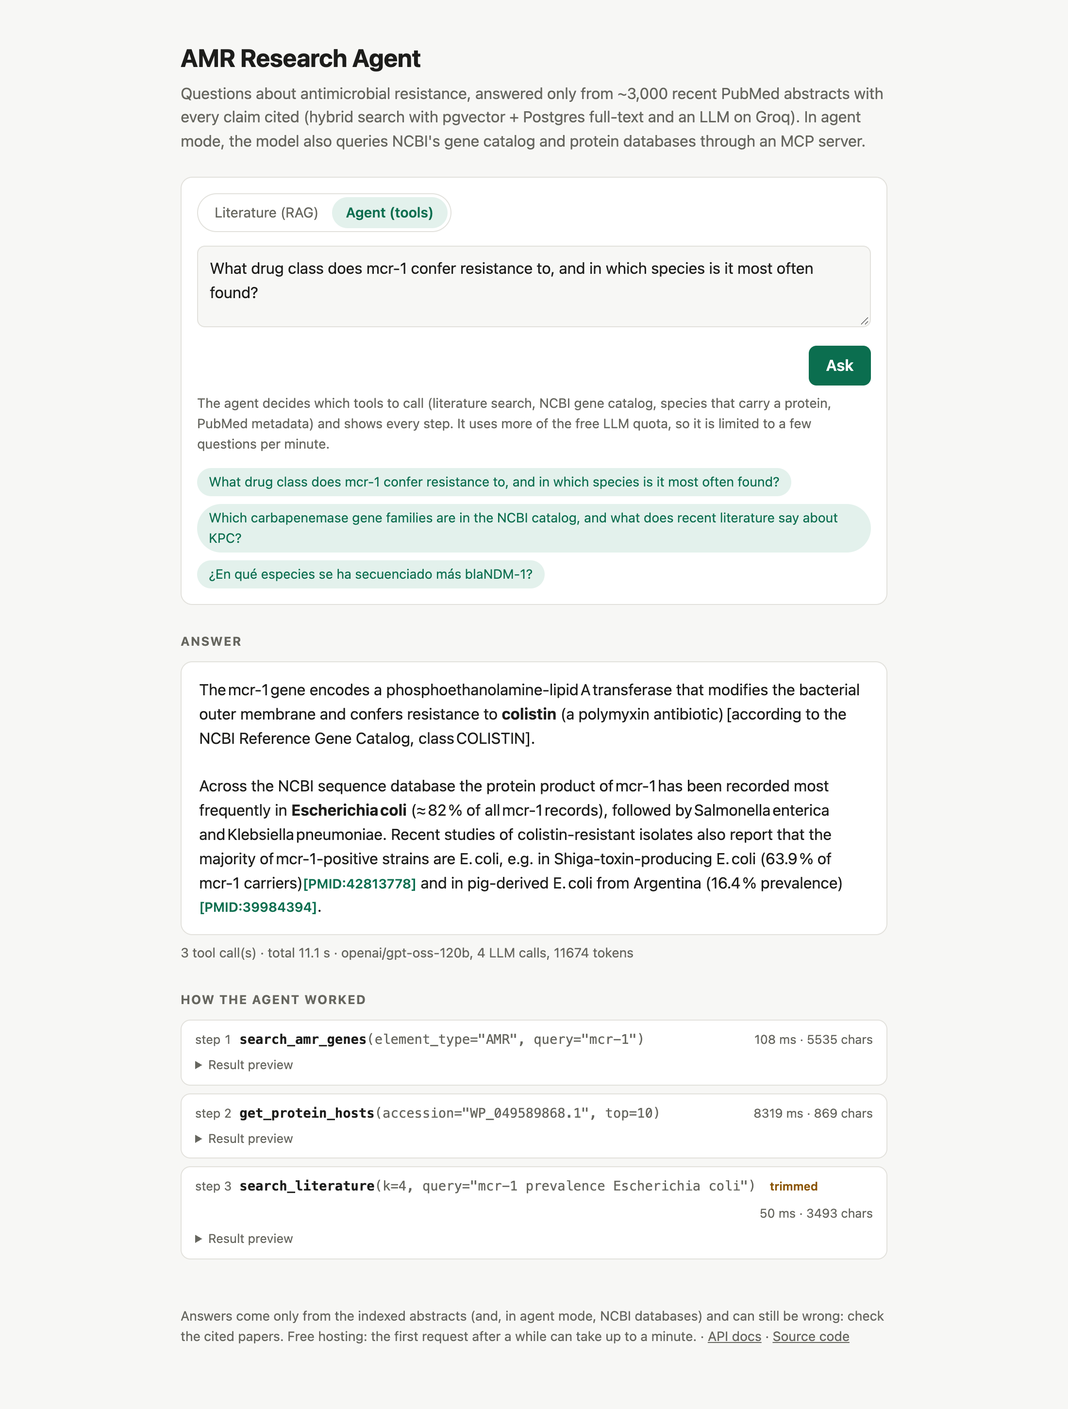
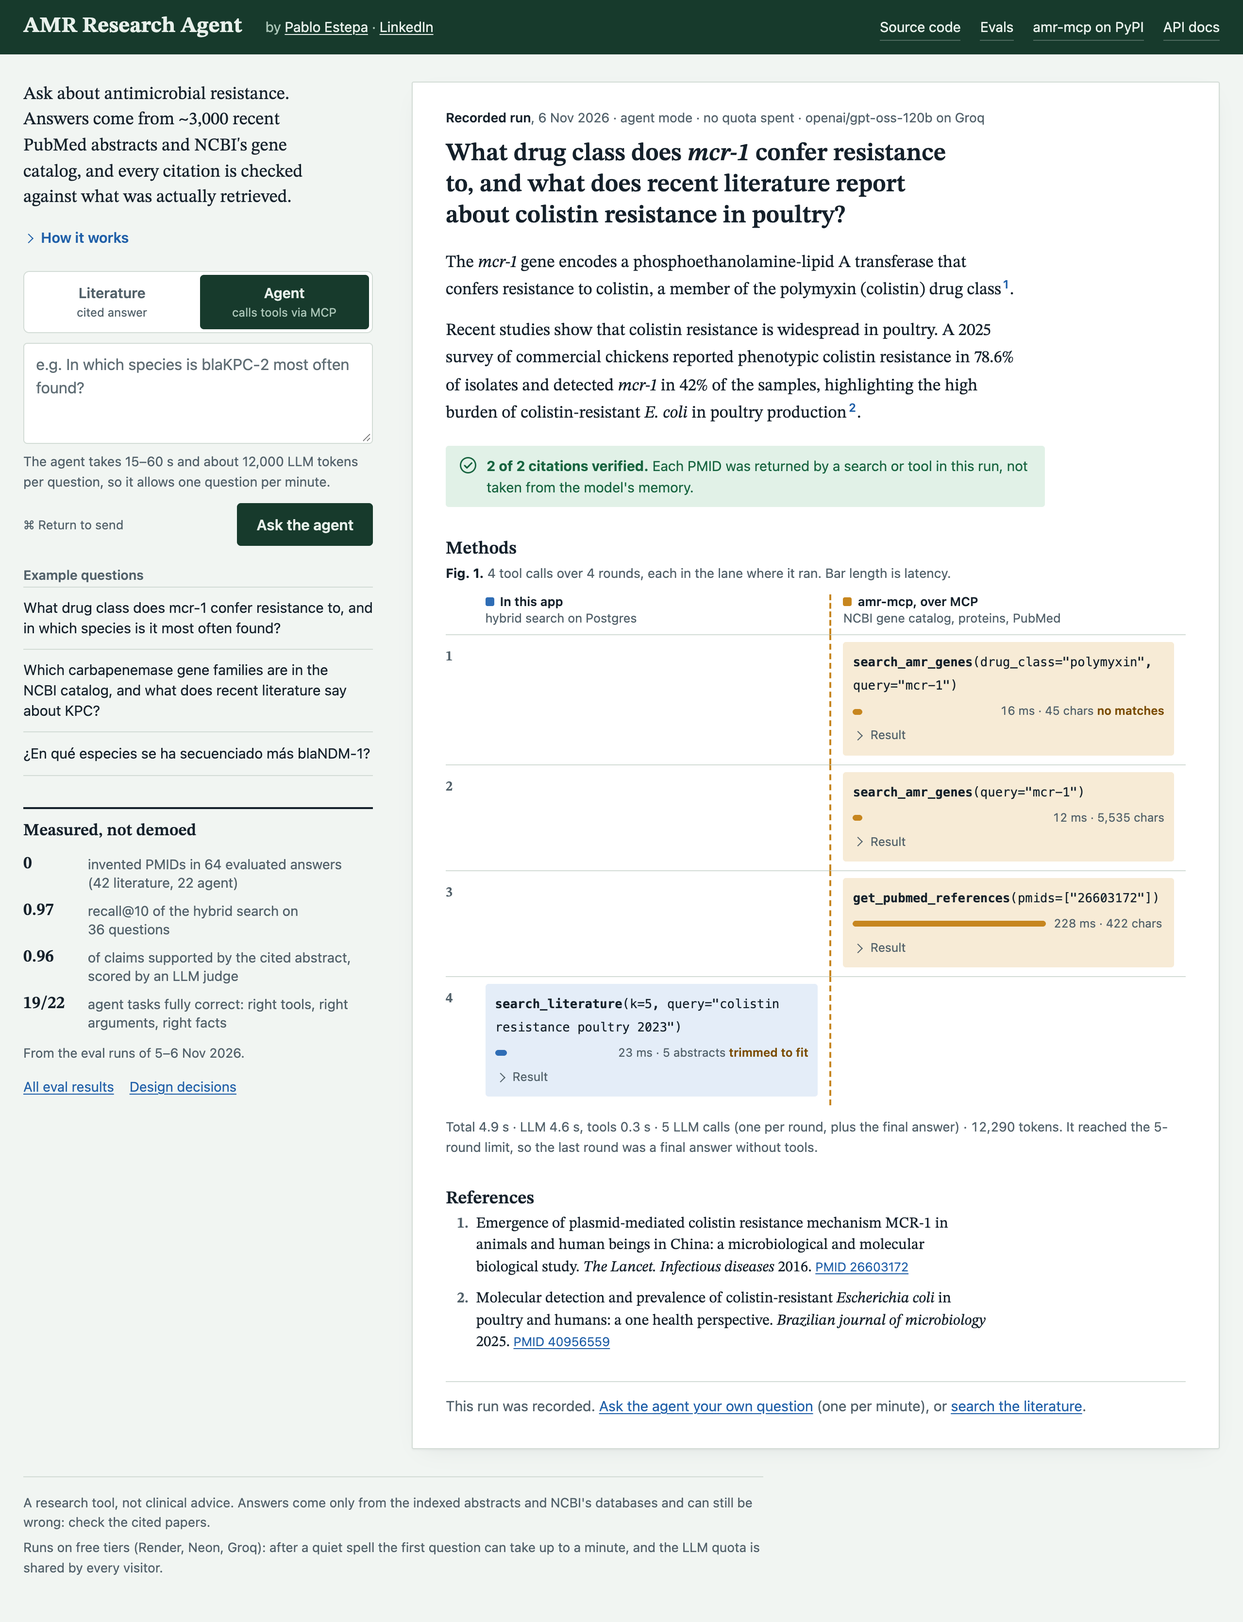
Show demo failures inside the entry and start in agent mode

diff --git a/src/amr_agent/api/static/index.html b/src/amr_agent/api/static/index.html
@@ -18,7 +18,7 @@
     --shell: #173a2c; --shell-ink: #e8f0eb; --shell-muted: #a9c4b6; --shell-line: #ffffff3d;
     --link: #1f5fa8; --ok: #17643f; --ok-soft: #e1f1e7; --bad: #a3241a; --bad-soft: #fbe7e4;
     --warn: #7a4b00; --warn-soft: #fbf0d9;
-    --app: #2f6db5; --app-soft: #e4edf8; --mcp: #9a5f0c; --mcp-bar: #c7861f; --mcp-soft: #f7ebd6;
+    --app: #2f6db5; --app-soft: #e4edf8; --mcp: #8a5308; --mcp-bar: #c7861f; --mcp-soft: #f7ebd6;
     --select: #cfe3d7; --placeholder: #5f6d74;
     --serif: "STIX Two Text", "STIX Two", Cambria, "Times New Roman", serif;
     --sans: -apple-system, BlinkMacSystemFont, "Segoe UI", "Helvetica Neue", Arial, sans-serif;
@@ -86,6 +86,7 @@
   select { font: inherit; color: var(--ink); background: var(--paper); border: 1px solid var(--rule); border-radius: 4px; padding: 6px 8px; min-height: 36px; }
   .submit-row { display: flex; align-items: center; gap: 12px; margin-top: 12px; }
   .kbd { color: var(--muted); font-size: 0.8rem; }
+  @media (hover: none) { .kbd { visibility: hidden; } }
   .btn { margin-left: auto; font: 600 0.95rem var(--sans); color: var(--shell-ink); background: var(--shell); border: 0; border-radius: 4px; padding: 0 20px; min-height: 44px; cursor: pointer; transition: background-color 150ms ease-out; }
   .btn:hover:not(:disabled) { background: #0f2b20; }
   .btn:disabled { cursor: not-allowed; opacity: 0.62; }
@@ -119,10 +120,16 @@
   .evidence dl { margin: 0; max-width: 34ch; display: grid; grid-template-columns: 3.4rem 1fr; gap: 8px 12px; }
   .evidence dt { font: 600 1.12rem/1.3 var(--serif); font-variant-numeric: lining-nums tabular-nums; }
   .evidence dd { margin: 0; color: var(--muted); font-size: 0.88rem; line-height: 1.35; padding-top: 2px; }
+  .evidence .fig-date { margin: 12px 0 0; font-size: 0.84rem; color: var(--muted); }
   .evidence .links { margin: 14px 0 0; font-size: 0.88rem; display: flex; flex-wrap: wrap; gap: 4px 16px; }
-  details.how { margin-top: 14px; border-top: 1px solid var(--rule); padding-top: 10px; font-size: 0.9rem; }
-  details.how summary { cursor: pointer; font-weight: 600; min-height: 32px; display: flex; align-items: center; }
-  details.how ol { margin: 6px 0 0; padding-left: 1.3rem; }
+  details.how { margin: -6px 0 18px; font-size: 0.92rem; }
+  details.how summary { cursor: pointer; font-weight: 600; min-height: 32px; display: flex; align-items: center; color: var(--link); }
+  /* Marcador propio: con display:flex el <summary> pierde el triángulo del navegador */
+  details > summary { list-style: none; }
+  details > summary::-webkit-details-marker { display: none; }
+  details > summary::before { content: ""; flex: none; width: 6px; height: 6px; margin: 0 9px 0 2px; border-right: 1.5px solid currentColor; border-bottom: 1.5px solid currentColor; transform: rotate(-45deg); transition: transform 150ms ease-out; }
+  details[open] > summary::before { transform: rotate(45deg) translate(-1px, -1px); }
+  details.how ol { margin: 6px 0 4px; padding-left: 1.3rem; color: var(--ink); }
   details.how li { margin-bottom: 6px; }
 
   /* --- La entrada del cuaderno --------------------------------------------------------- */
@@ -131,11 +138,12 @@
   .entry:focus-visible { outline: 2px solid var(--link); }
   .entry-meta { display: flex; flex-wrap: wrap; gap: 6px 14px; align-items: center; font-size: 0.84rem; color: var(--muted); margin-bottom: 12px; }
   .entry-meta b { font-weight: 600; color: var(--ink); }
-  .entry h2.q { font: 600 1.6rem/1.25 var(--serif); margin: 0 0 18px; max-width: 44ch; text-wrap: balance; overflow-wrap: anywhere; }
+  .entry h2.q { font: 600 1.6rem/1.25 var(--serif); margin: 0 0 18px; max-width: 44ch; text-wrap: balance; overflow-wrap: break-word; }
   .answer { font: 400 1.1rem/1.62 var(--serif); max-width: 68ch; overflow-wrap: break-word; font-variant-numeric: oldstyle-nums proportional-nums; }
   .answer p, .answer ul, .answer ol { margin: 0 0 0.75em; }
   .answer ul, .answer ol { padding-left: 1.3em; }
   .answer strong { font-weight: 600; }
+  i.gene, i.sp { white-space: nowrap; }
   .refs-inline { font: 600 0.68em/1 var(--sans); vertical-align: 0.5em; margin-left: 1px; white-space: nowrap; }
   .refs-inline a { text-decoration: none; padding: 0 1px; }
   .refs-inline a:hover { text-decoration: underline; }
@@ -149,7 +157,7 @@
   .witness b { font-weight: 700; }
 
   .entry h3 { font: 600 1.15rem/1.3 var(--serif); margin: 32px 0 2px; }
-  .entry .sub { color: var(--muted); font-size: 0.86rem; margin: 0 0 12px; max-width: 68ch; }
+  .entry .sub { color: var(--muted); font-size: 0.84rem; margin: 0 0 12px; max-width: 68ch; }
   .entry .sub b { color: var(--ink); }
 
   /* Métodos: la trayectoria, con la frontera MCP como línea discontinua */
@@ -170,7 +178,7 @@
   .call.error { box-shadow: inset 0 0 0 1px var(--bad); }
   .call code { font-size: 0.8rem; line-height: 1.4; overflow-wrap: anywhere; }
   .call code b { font-weight: 700; }
-  .call .where { display: none; font-size: 0.75rem; font-weight: 600; color: var(--mcp); }
+  .call .where { display: none; font-size: 0.76rem; font-weight: 600; color: var(--mcp); }
   .bar { display: flex; align-items: center; gap: 8px; margin-top: 7px; font-size: 0.76rem; color: var(--muted); font-variant-numeric: tabular-nums; }
   .bar .track { flex: 1 1 0; max-width: 62%; min-width: 48px; }
   .bar .label { flex: none; }
@@ -200,11 +208,20 @@
 
   /* Espera */
   .pending { color: var(--muted); font-size: 0.95rem; max-width: 60ch; }
+  .wait-cell { grid-column: 2 / 4; min-height: 56px; }
+  .wait-track { height: 6px; margin-top: 18px; border-radius: 3px; background: var(--ground); overflow: hidden; }
+  .wait-track i { display: block; height: 100%; width: 0; background: var(--muted); opacity: 0.45; transition: width 1s linear; }
   .pending p { margin: 0 0 6px; }
   .pending .elapsed { font-variant-numeric: tabular-nums; }
 
+  .entry-notice { padding: 12px 14px; border-radius: 3px; max-width: 68ch; font-size: 0.95rem; }
+  .entry-notice p { margin: 0; }
+  .entry-notice .countdown:not(:empty) { margin-top: 6px; font-weight: 600; font-variant-numeric: tabular-nums; }
+  .entry-notice.error { background: var(--bad-soft); color: var(--bad); }
+  .entry-notice.limit { background: var(--warn-soft); color: var(--warn); }
+  .entry-notice .link-btn { color: inherit; font-weight: 600; }
   .next { margin: 28px 0 0; padding-top: 14px; border-top: 1px solid var(--rule); font-size: 0.92rem; color: var(--muted); }
-  footer.foot { grid-column: 1 / -1; color: var(--muted); font-size: 0.86rem; border-top: 1px solid var(--rule); padding-top: 16px; max-width: 90ch; }
+  footer.foot { grid-column: 1 / -1; color: var(--muted); font-size: 0.84rem; border-top: 1px solid var(--rule); padding-top: 16px; max-width: 90ch; }
   footer.foot p { margin: 0 0 6px; }
 
   /* El único movimiento: las barras de latencia se dibujan al aparecer la trayectoria */
@@ -254,18 +271,30 @@
     <section class="ask" aria-label="Ask a question">
       <p class="lead">Ask about antimicrobial resistance. Answers come from ~3,000 recent PubMed abstracts
         and NCBI's gene catalog, and every citation is checked against what was actually retrieved.</p>
+      <details class="how">
+        <summary>How it works</summary>
+        <ol>
+          <li>Your question is searched two ways over ~3,000 PubMed abstracts (2022–2026): Postgres
+            full-text for exact terms and pgvector embeddings for meaning, merged with reciprocal rank fusion.</li>
+          <li>An LLM (gpt-oss-120b on Groq) answers only from the abstracts it was given and cites them by PMID.</li>
+          <li>Every cited PMID is checked against what was retrieved. Anything else is flagged, never trusted.</li>
+          <li>In agent mode the model runs a loop of up to 5 rounds and chooses its tools: the same
+            literature search, or NCBI's gene catalog, protein records and PubMed through
+            <a href="https://pypi.org/project/amr-mcp/">amr-mcp</a>, an MCP server I wrote.</li>
+        </ol>
+      </details>
 
       <form id="ask">
         <fieldset class="tabs">
           <legend class="vh">Mode</legend>
-          <label><input type="radio" name="kind" value="ask" checked>Literature<small>cited answer</small></label>
-          <label><input type="radio" name="kind" value="agent">Agent<small>calls tools via MCP</small></label>
+          <label><input type="radio" name="kind" value="ask">Literature<small>cited answer</small></label>
+          <label><input type="radio" name="kind" value="agent" checked>Agent<small>calls tools via MCP</small></label>
         </fieldset>
         <label for="question" class="vh">Your question</label>
         <textarea id="question" name="question" maxlength="500" autocomplete="off"
-          placeholder="e.g. Which genes confer colistin resistance in E. coli?" aria-describedby="lang-note mode-note"></textarea>
+          placeholder="e.g. In which species is blaKPC-2 most often found?" aria-describedby="lang-note mode-note"></textarea>
         <p class="field-note lang" id="lang-note" hidden>The search index is English-only, so English questions find more. The answer will still be in your language.</p>
-        <div class="opts" id="search-opts">
+        <div class="opts" id="search-opts" hidden>
           <label for="mode">Search by</label>
           <select id="mode" name="mode">
             <option value="hybrid" selected>keywords + meaning (hybrid)</option>
@@ -273,10 +302,10 @@
             <option value="keyword">exact keywords (full-text)</option>
           </select>
         </div>
-        <p class="field-note" id="mode-note" hidden>The agent takes 15–60 s and about 12,000 LLM tokens per question, so it allows one question per minute.</p>
+        <p class="field-note" id="mode-note">The agent takes 15–60 s and about 12,000 LLM tokens per question, so it allows one question per minute.</p>
         <div class="submit-row">
           <span class="kbd" id="kbd" aria-hidden="true"></span>
-          <button type="submit" class="btn" id="submit">Search the literature</button>
+          <button type="submit" class="btn" id="submit">Ask the agent</button>
         </div>
         <div class="status" id="status" role="status" aria-live="polite"></div>
       </form>
@@ -284,13 +313,13 @@
     </section>
 
     <section class="examples-box" aria-labelledby="ex-h">
-      <p class="ex-h" id="ex-h">Or try one</p>
-      <ul class="examples" id="examples-ask" aria-labelledby="ex-h">
+      <p class="ex-h" id="ex-h">Example questions</p>
+      <ul class="examples" id="examples-ask" aria-labelledby="ex-h" hidden>
         <li><button type="button">Which genes confer colistin resistance in E. coli?</button></li>
         <li><button type="button">How does blaNDM-1 spread between bacteria?</button></li>
         <li><button type="button">Are ESBL-producing E. coli found in food animals?</button></li>
       </ul>
-      <ul class="examples" id="examples-agent" aria-labelledby="ex-h" hidden>
+      <ul class="examples" id="examples-agent" aria-labelledby="ex-h">
         <li><button type="button">What drug class does mcr-1 confer resistance to, and in which species is it most often found?</button></li>
         <li><button type="button">Which carbapenemase gene families are in the NCBI catalog, and what does recent literature say about KPC?</button></li>
         <li><button type="button">¿En qué especies se ha secuenciado más blaNDM-1?</button></li>
@@ -305,22 +334,11 @@
         <dt>0.96</dt><dd>of claims supported by the cited abstract, scored by an LLM judge</dd>
         <dt>19/22</dt><dd>agent tasks fully correct: right tools, right arguments, right facts</dd>
       </dl>
+      <p class="fig-date">From the eval runs of 5–6 Nov 2026.</p>
       <p class="links">
         <a href="https://github.com/pabloestepaa/amr-research-agent/blob/main/evals/RESULTS.md">All eval results</a>
         <a href="https://github.com/pabloestepaa/amr-research-agent/blob/main/docs/decisions.md">Design decisions</a>
       </p>
-      <details class="how">
-        <summary>How it works</summary>
-        <ol>
-          <li>Your question is searched two ways over ~3,000 PubMed abstracts (2022–2026): Postgres
-            full-text for exact terms and pgvector embeddings for meaning, merged with reciprocal rank fusion.</li>
-          <li>An LLM (gpt-oss-120b on Groq) answers only from the abstracts it was given and cites them by PMID.</li>
-          <li>Every cited PMID is checked against what was retrieved. Anything else is flagged, never trusted.</li>
-          <li>In agent mode the model runs a loop of up to 5 rounds and chooses its tools: the same
-            literature search, or NCBI's gene catalog, protein records and PubMed through
-            <a href="https://pypi.org/project/amr-mcp/">amr-mcp</a>, an MCP server I wrote.</li>
-        </ol>
-      </details>
     </section>
   </div>
 
@@ -362,7 +380,8 @@ const plural = (n, one, many) => `${fmt(n)} ${n === 1 ? one : many}`;
 
 // gpt-oss escribe espacios finos (U+202F) y guiones que no cortan (U+2011): se ven como espacios
 // perdidos y rompen las búsquedas de genes. Se normalizan antes de nada.
-const normalize = (t) => String(t).replace(/[    ]/g, " ").replace(/[‐‑]/g, "-");
+const normalize = (t) => String(t).replace(/[    ]/g, " ").replace(/[‐‑]/g, "-").replace(/(\d) +%/g, "$1%")
+  .replace(/\b[Bb]la_(?=[A-Z])/g, "bla");  // gpt-oss escribe a veces bla_NDM-1
 
 // Convención científica: especies y genes en cursiva.
 const GENERA = "Escherichia|Klebsiella|Acinetobacter|Pseudomonas|Salmonella|Enterobacter|Enterococcus|Staphylococcus|Streptococcus|Proteus|Serratia|Citrobacter|Shigella|Campylobacter|Neisseria|Mycobacterium|Clostridioides|Helicobacter|Vibrio|Morganella|Providencia|Burkholderia|Stenotrophomonas|Haemophilus|Listeria|Bacteroides";
@@ -374,7 +393,7 @@ const GENES = /\b(?:bla[A-Z][A-Za-z]*(?:-\d+)?|mcr-\d+(?:\.\d+)?|qnr[A-Z]\d*|tet
 function italicize(html) {
   // Solo en el texto, nunca dentro de etiquetas (que aquí solo son <strong>/<em>).
   return html.split(/(<[^>]+>)/).map((part) => part.startsWith("<") ? part
-    : part.replace(SPECIES, "<i>$&</i>").replace(GENES, "<i>$&</i>")).join("");
+    : part.replace(SPECIES, '<i class="sp">$&</i>').replace(GENES, '<i class="gene">$&</i>')).join("");
 }
 
 // El texto se escapa ANTES de darle formato: la respuesta del LLM nunca se inserta como HTML tal
@@ -543,6 +562,8 @@ function renderEntry(e) {
     if (rest.length)
       parts.push(`<details class="more-src"><summary>${rest.length === sources.length ? "Retrieved" : "Also retrieved"}, not cited (${rest.length})</summary><ol class="refs">${rest.map((s) => `<li>${reference(s, s.pmid)}</li>`).join("")}</ol></details>`);
   }
+  if (!recorded && RECORDED)
+    parts.push(`<p class="next"><button type="button" class="link-btn" data-act="ask-again">Ask another question</button> or <button type="button" class="link-btn" data-act="recorded">see the recorded agent run</button>.</p>`);
   if (recorded)
     parts.push(`<p class="next">This run was recorded. <button type="button" class="link-btn" data-act="agent">Ask the agent your own question</button> (one per minute), or <button type="button" class="link-btn" data-act="literature">search the literature</button>.</p>`);
   const bodyEl = $("entry-body");
@@ -550,6 +571,17 @@ function renderEntry(e) {
   entry.classList.remove("drawn");
   void entry.offsetWidth;  // reinicia la animación de las barras
   entry.classList.add("drawn");
+}
+
+// Cuando una pregunta falla, el aviso va en la propia entrada: en móvil la página ya se ha
+// desplazado hasta aquí y el formulario queda arriba, fuera de la vista.
+function renderFailure(kind, q, err) {
+  $("entry-meta").innerHTML = `<span><b>Your question</b> · ${kind === "agent" ? "agent mode" : "literature mode"} · not answered</span>`;
+  $("entry-q").innerHTML = italicize(escapeHtml(normalize(q)));
+  const back = current ? ` <button type="button" class="link-btn" data-act="restore">Show the previous entry</button>.` : "";
+  $("entry-body").innerHTML = `<div class="entry-notice ${err.cls || "error"}"><p>${err.html || escapeHtml(String(err.message || err))}</p>`
+    + `<p class="countdown" data-countdown="${kind}"></p></div><p class="next">Your question is still in the box above.${back}</p>`;
+  syncButton();
 }
 
 // --- Envío, espera y límites ---------------------------------------------------------------
@@ -569,6 +601,10 @@ function syncButton() {
   const kind = kindNow();
   const left = Math.ceil((cooldown[kind] - Date.now()) / 1000);
   if (busy) { submit.disabled = true; return; }
+  document.querySelectorAll("[data-countdown]").forEach((el) => {
+    const s = Math.ceil((cooldown[el.dataset.countdown] - Date.now()) / 1000);
+    el.textContent = s > 0 ? `You can ask again in ${s} s.` : (cooldown[el.dataset.countdown] ? "You can ask again now." : "");
+  });
   if (left > 0) {
     submit.disabled = true;
     submit.textContent = `Next question in ${left} s`;
@@ -602,7 +638,7 @@ function syncMode() {
   syncButton();
 }
 
-const SPANISH = /[¿¡ñáéíóú]|\b(qué|cuál|cómo|dónde|genes? de|resistencia|especies?|bacterias?)\b/i;
+const SPANISH = /[¿¡ñáéíóú]|\b(qué|cuál|cómo|dónde|genes? de|resistencia|especies?|bacterias)\b/i;
 function syncLang() { $("lang-note").hidden = isAgent() || !SPANISH.test(question.value); }
 
 function showPending(kind, q) {
@@ -611,13 +647,23 @@ function showPending(kind, q) {
   const what = kind === "agent"
     ? "The agent is choosing tools and reading their results. This usually takes 15–60 s."
     : "Searching the abstracts and writing a cited answer. This usually takes a few seconds.";
-  $("entry-body").innerHTML = `<div class="pending"><p>${what}</p><p class="elapsed" id="elapsed">0 s elapsed</p><p id="slow" hidden></p></div>`;
+  const frame = kind !== "agent" ? "" : `<h3>Methods</h3>
+    <p class="sub"><b>Fig. 1.</b> The agent runs up to 5 rounds on the server; its tool calls are drawn here, each in its lane, when it answers.</p>
+    <div class="lanes">
+      <div class="lane-h" aria-hidden="true"></div>
+      <div class="lane-h app">In this app<span>hybrid search on Postgres</span></div>
+      <div class="lane-h mcp">amr-mcp, over MCP<span>NCBI gene catalog, proteins, PubMed</span></div>
+      <div class="lane-n">…</div><div class="cell wait-cell"><div class="wait-track"><i id="wait-fill"></i></div></div>
+    </div>`;
+  $("entry-body").innerHTML = `<div class="pending"><p>${what}</p><p class="elapsed" id="elapsed">0 s elapsed</p><p id="slow" hidden></p></div>${frame}`;
   entry.setAttribute("aria-busy", "true");
   const t0 = Date.now();
   return setInterval(() => {
     const s = Math.round((Date.now() - t0) / 1000);
     const el = $("elapsed");
     if (el) el.textContent = `${s} s elapsed`;
+    const fill = $("wait-fill");  // tiempo real transcurrido frente a los 60 s habituales
+    if (fill) fill.style.width = `${Math.min(100, (s / 60) * 100)}%`;
     const slow = $("slow");
     if (slow && s >= (kind === "agent" ? 70 : 12)) {
       slow.hidden = false;
@@ -670,9 +716,10 @@ async function ask(event) {
     entry.focus({ preventScroll: true });
     bringIntoView();
   } catch (err) {
-    if (current) renderEntry(current);
-    setStatus(err.html || escapeHtml(String(err.message || err)), err.cls || "error");
-    if (err.until) statusBox.dataset.until = err.until;
+    renderFailure(kind, q, err);
+    setStatus("Not answered: " + (err.cls === "limit" ? "a usage limit was reached." : "something went wrong."), "sr");
+    entry.focus({ preventScroll: true });
+    bringIntoView();
   } finally {
     clearInterval(timer);
     entry.removeAttribute("aria-busy");
@@ -695,6 +742,8 @@ function problem(resp, body, kind) {
       ? "The agent allows one question per minute from each visitor, to stay inside the free LLM quota. The button counts down until you can ask again."
       : "That's five questions in a minute. The button counts down until you can ask again.", cls: "limit", until: cooldown[kind] };
   }
+  if (resp.status === 503 && /daily/i.test(detail))
+    return { html: `The free LLM token budget for today is nearly used up (it's shared by every visitor and frees up gradually over the day). Try again later. Meanwhile, <button type="button" class="link-btn" data-act="recorded">see the recorded agent run</button>.`, cls: "limit" };
   if (resp.status === 503 && /rate limit/i.test(detail)) {
     cooldown[kind] = Date.now() + 60_000;
     return { html: `The free LLM quota for this minute is used up (it's shared by every visitor). Try again in a minute${kind === "agent" ? ', or <button type="button" class="link-btn" data-act="literature">switch to Literature mode</button>, which needs far fewer tokens' : ""}.`, cls: "limit", until: cooldown[kind] };
@@ -722,6 +771,12 @@ function onAct(e) {
     const target = question.value.trim() ? submit : question;
     target.focus({ preventScroll: true });
     target.scrollIntoView({ behavior: reduceMotion ? "auto" : "smooth", block: "center" });
+  } else if (act === "restore" && current) {
+    renderEntry(current);
+    entry.focus({ preventScroll: true });
+  } else if (act === "ask-again") {
+    question.focus({ preventScroll: true });
+    question.scrollIntoView({ behavior: reduceMotion ? "auto" : "smooth", block: "center" });
   } else if (act === "recorded" && RECORDED) {
     current = RECORDED;
     renderEntry(current);

diff --git a/tests/test_api.py b/tests/test_api.py
@@ -68,7 +68,22 @@ def test_rate_limit_from_llm_becomes_503(client):
 
     app.dependency_overrides[get_rag] = lambda: RagService(
         FakeRetriever([make_hit("1")]), RateLimitedLLM())
-    assert client.post("/ask", json={"question": "colistin?"}).status_code == 503
+    resp = client.post("/ask", json={"question": "colistin?"})
+    assert resp.status_code == 503 and "in a minute" in resp.json()["detail"]
+
+
+def test_daily_llm_limit_is_reported_as_daily(client):
+    class DailyLimitedLLM:
+        async def complete(self, system, user):
+            request = httpx.Request("POST", "https://x")
+            raise openai.RateLimitError(
+                "Rate limit reached on tokens per day (TPD): Limit 200000",
+                response=httpx.Response(429, request=request), body=None)
+
+    app.dependency_overrides[get_rag] = lambda: RagService(
+        FakeRetriever([make_hit("1")]), DailyLimitedLLM())
+    resp = client.post("/ask", json={"question": "colistin?"})
+    assert resp.status_code == 503 and "daily" in resp.json()["detail"]
 
 
 def test_demo_page_is_served(client):

diff --git a/src/amr_agent/api/main.py b/src/amr_agent/api/main.py
@@ -164,6 +164,11 @@ def llm_errors():
     try:
         yield
     except openai.RateLimitError as exc:
+        # Groq Free tiene dos límites: tokens por minuto y por día (TPD, ventana móvil de 24 h).
+        # Decir "en un minuto" cuando es el diario manda al visitante a fallar otra vez.
+        if "per day" in str(exc):
+            raise HTTPException(
+                503, "LLM free-tier daily token limit reached, try again later") from exc
         raise HTTPException(503, "LLM free-tier rate limit reached, try again in a minute") from exc
     except openai.APIError as exc:
         log.exception("LLM provider error")
